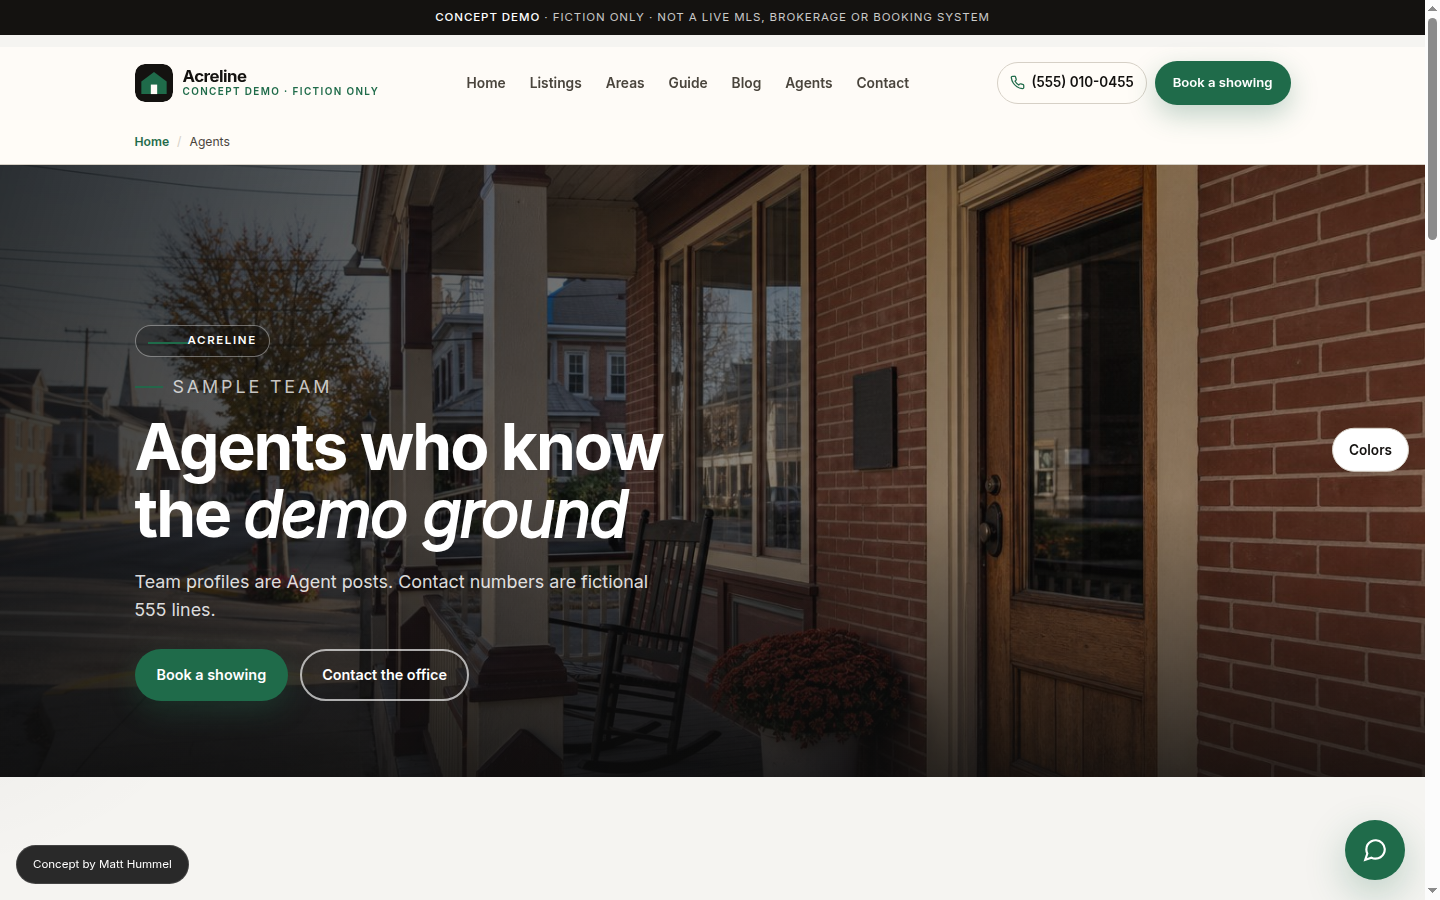
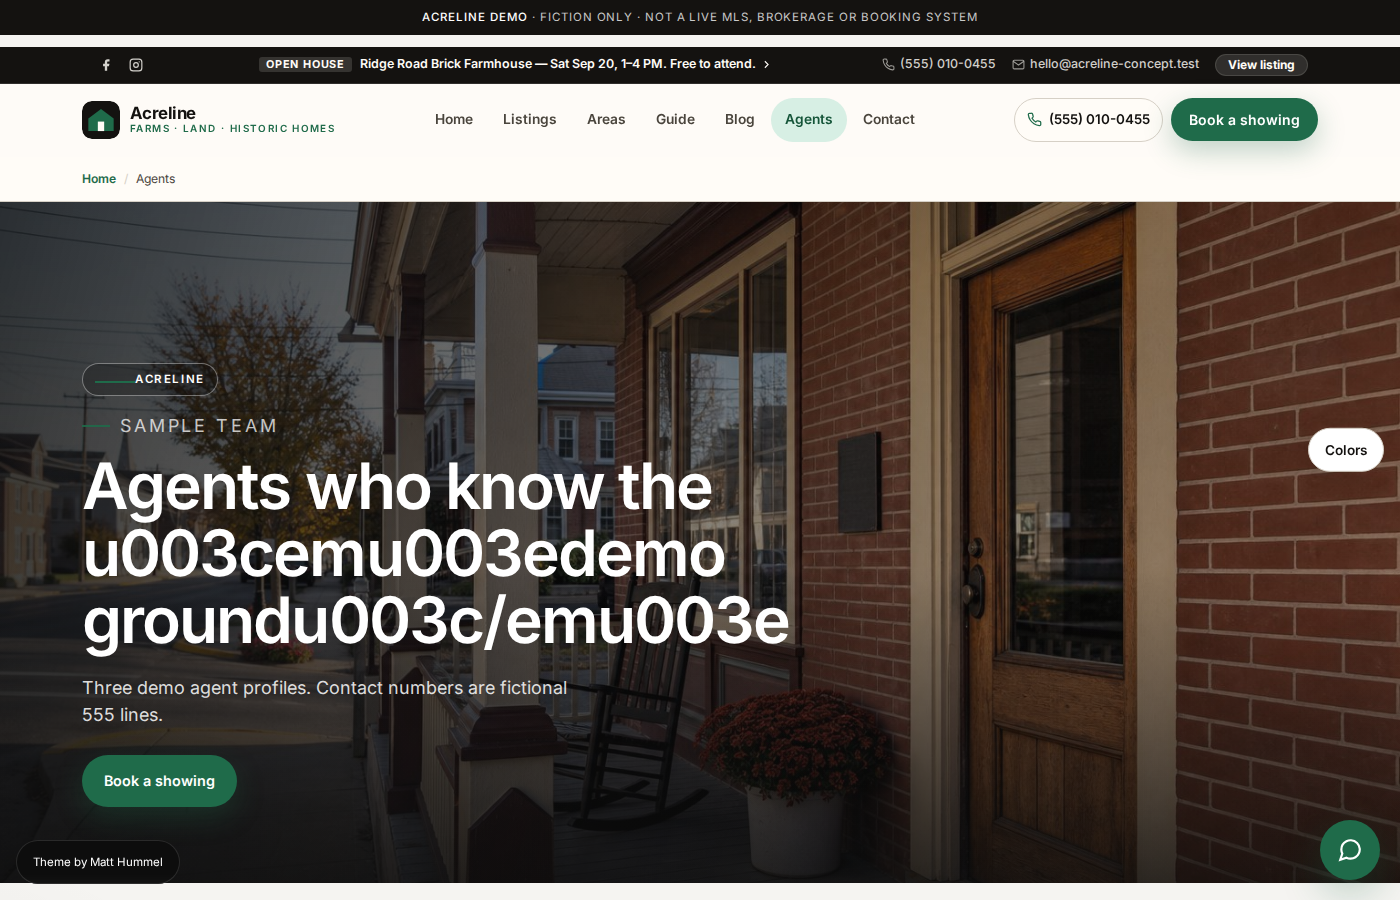
docs: add tab nav to README, refresh all screenshots for v1.4.0
- README.md: added centred anchor-link tab navigation near the top
  (Screenshots · Features · Listings & Agents · Customizer · Blocks ·
  Admin · Buying · Dev Setup · Docs) — each links to its section heading
- Screenshots section reorganised into a 2-col table with click-to-enlarge
  links; new Top Bar screenshot shown in its own subsection
- All 7 existing screenshots recaptured at 1400×900 px with top bar
  enabled and enriched seed content visible
- 2 new screenshots: 08-topbar-desktop.png (top bar close-up),
  09-listing-detail.png (listing page scrolled to calculator + agent card)
- docs/marketplace/screenshots/README.txt updated with all 9 entries
  and re-capture instructions

diff --git a/README.md b/README.md
@@ -13,7 +13,6 @@
 | **Live demo** | [acreline.matthummel.com](https://acreline.matthummel.com/) |
 | **Product page** | [matthummel.com/projects/acreline/](https://matthummel.com/projects/acreline/) |
 | **Buy / checkout** | [matthummel.com/product/acreline/](https://matthummel.com/product/acreline/) |
-| **ThemeForest** | [themeforest.net/item/acreline](https://themeforest.net/user/matthummel) *(listing in review)* |
 | **GitHub** | [`matthummel-pa/wp-acreline`](https://github.com/matthummel-pa/wp-acreline) |
 | **Support** | [SUPPORT.md](SUPPORT.md) · [GitHub Issues](https://github.com/matthummel-pa/wp-acreline/issues) |
 | **Author** | [Matt Hummel](https://matthummel.com/) |
@@ -24,32 +23,74 @@
 
 ---
 
+<!--  ──────────────────────────── TAB NAVIGATION ──────────────────────────── -->
+<div align="center">
+
+[📸 Screenshots](#screenshots) &nbsp;·&nbsp;
+[✨ Features](#features) &nbsp;·&nbsp;
+[🏠 Listings & Agents](#listings-agents-and-showings) &nbsp;·&nbsp;
+[🎨 Customizer](#customizer-appearance--customize) &nbsp;·&nbsp;
+[🧱 Blocks](#gutenberg-block-system-22-custom-blocks) &nbsp;·&nbsp;
+[⚙ Admin](#admin-pages) &nbsp;·&nbsp;
+[🛒 Buying](#purchasing-on-matthummelcom) &nbsp;·&nbsp;
+[💻 Dev Setup](#local-development-this-git-repo) &nbsp;·&nbsp;
+[📖 Docs](#documentation)
+
+</div>
+
+---
+
 ## Screenshots
 
-> Captured from the seeded concept demo. The same images are used on the [matthummel.com Acreline product page](https://matthummel.com/projects/acreline/).
+> Captured from the seeded concept demo at full 1400 px desktop width. The same images are used on the [matthummel.com Acreline product page](https://matthummel.com/projects/acreline/).
+
+### Pages
 
 | | |
-|---|---|
-| ![Homepage](docs/marketplace/screenshots/01-homepage.png) | ![Listings](docs/marketplace/screenshots/02-listings.png) |
-| **Homepage** — Hero search, Intent cards, Featured listings | **Listings** — Filter bar (type, price, acreage, area), grid + map |
-| ![Listing detail](docs/marketplace/screenshots/03-listing.png) | ![Agents](docs/marketplace/screenshots/04-agents.png) |
-| **Listing detail** — Photo, stats, calculator, agent, book CTA | **Agents** — Stats grid, designations, social links |
-| ![Contact](docs/marketplace/screenshots/05-contact.png) | ![Areas](docs/marketplace/screenshots/06-areas.png) |
-| **Contact** — Office info from Customizer + message form | **Areas** — Numbered cards, local market copy |
-| ![Book a Showing](docs/marketplace/screenshots/07-book.png) | |
-| **Book a Showing** — Showing request form, agent selector | |
+|:---:|:---:|
+| [![Homepage](docs/marketplace/screenshots/01-homepage.png)](docs/marketplace/screenshots/01-homepage.png) | [![Listings](docs/marketplace/screenshots/02-listings.png)](docs/marketplace/screenshots/02-listings.png) |
+| **Homepage** — Hero search · Intent cards · Featured listings | **Listings** — Filter bar (type, price, acreage, area) · Grid view |
+| [![Listing detail](docs/marketplace/screenshots/03-listing.png)](docs/marketplace/screenshots/03-listing.png) | [![Listing detail scroll](docs/marketplace/screenshots/09-listing-detail.png)](docs/marketplace/screenshots/09-listing-detail.png) |
+| **Listing detail** — Photo, stats, sticky CTA | **Listing detail (scrolled)** — Calculator, agent card, book CTA |
+| [![Agents](docs/marketplace/screenshots/04-agents.png)](docs/marketplace/screenshots/04-agents.png) | [![Contact](docs/marketplace/screenshots/05-contact.png)](docs/marketplace/screenshots/05-contact.png) |
+| **Agents** — Stats grid · Designations · Social links | **Contact** — Office info from Customizer + message form |
+| [![Areas](docs/marketplace/screenshots/06-areas.png)](docs/marketplace/screenshots/06-areas.png) | [![Book a Showing](docs/marketplace/screenshots/07-book.png)](docs/marketplace/screenshots/07-book.png) |
+| **Areas** — Numbered sample market cards | **Book a Showing** — Request form · Agent selector |
 
-*Full-resolution screenshots and brand assets: `docs/marketplace/screenshots/` and `public/images/brand/`.*
+### Top bar (new in 1.4.0)
+
+[![Top bar desktop](docs/marketplace/screenshots/08-topbar-desktop.png)](docs/marketplace/screenshots/08-topbar-desktop.png)
+
+**Desktop top bar** — Announcement badge · Message · Phone · Social icons · CTA pill · Dismiss button. Hidden below 900 px; all items surface in the mobile nav drawer instead.
+
+*Full-resolution screenshots and brand assets: [`docs/marketplace/screenshots/`](docs/marketplace/screenshots/) and [`public/images/brand/`](public/images/brand/).*
 
 ---
 
-## What it is
+## Features
 
-A WordPress theme that gives a land or farm real estate office everything it needs in one zip — no page builder, no ACF, no IDX plugin required. Buyers customize identity, colors, and content from the WordPress admin. Developers get a clean [Sage 11](https://roots.io/sage/) codebase with Blade, Tailwind v4, and Vite 8.
+A WordPress theme that gives a land or farm real estate office everything it needs in one zip — no page builder, no ACF, no IDX plugin required.
 
----
+### What makes Acreline different
 
-## Built with
+| Feature | Acreline | Generic real-estate themes |
+| --- | :---: | :---: |
+| No page builder required | ✅ | Page builder license often required |
+| No ACF required | ✅ | ACF Pro often bundled or required |
+| No IDX/MLS plugin | ✅ | IDX subscription often needed |
+| 22 custom server-side Gutenberg blocks | ✅ | Most use Classic or shortcodes only |
+| Block Generator (no-code custom blocks) | ✅ | Unique to Acreline |
+| Listing comparison modal | ✅ | Rare without premium add-ons |
+| Saved listings in localStorage | ✅ | Usually requires a plugin or login |
+| Built-in mortgage calculator | ✅ | Usually a plugin |
+| Market snapshot shortcode | ✅ | Usually a plugin |
+| Open house date + virtual tour fields | ✅ | Often paid add-ons |
+| Agent performance stats | ✅ | Rarely included |
+| Desktop-only top bar with mobile fallback | ✅ | Rarely included |
+| Clean Sage 11 codebase | ✅ | Most themes use custom OOP or Classic |
+| Fiction-only concept demo | ✅ | Required for honest marketplace sales |
+
+### Built with
 
 | Layer | Technology |
 | --- | --- |
@@ -63,9 +104,7 @@ A WordPress theme that gives a land or farm real estate office everything it nee
 
 ---
 
-## What's included
-
-### Gutenberg block system (22 custom blocks)
+## Gutenberg block system (22 custom blocks)
 
 All marketing pages are built with WordPress blocks. Every block renders server-side so the editor canvas matches the live page exactly.
 
@@ -94,26 +133,15 @@ All marketing pages are built with WordPress blocks. Every block renders server-
 | `Agent List` | Agent grid with photo, stats, designations, and social links |
 | `Custom Block` | Renders blocks created in the Block Generator |
 
-**Block Generator** (Tools → Block Generator) lets admins create new custom blocks — name, fields, icon — without writing PHP or JavaScript. Field types: text, textarea, URL, image (media picker), toggle.
+**Block Generator** (Tools → Block Generator) — create new custom blocks without writing PHP or JavaScript. Field types: text, textarea, URL, image (media picker), toggle.
 
-**Migrate to Blocks** (Tools → Migrate to Blocks) converts any existing page copy from the legacy `ks_*` meta format to block content in one click.
+**Migrate to Blocks** (Tools → Migrate to Blocks) — converts legacy `ks_*` meta page copy to block content in one click.
 
-### Block customization
+Every block exposes **Inspector Controls**: typography (size/weight/alignment), image picker, hero overlay, CTA style, FAQ format, column count, and per-block show/hide toggles.
 
-Every block has a live **ServerSideRender** preview in the editor so what you see in the canvas matches what visitors see. The **Inspector Controls** sidebar exposes:
+---
 
-- **Typography** — heading size (sm / default / lg / xl), heading weight, body text size, alignment
-- **Images** — WordPress media library picker with thumbnail preview and remove button
-- **Hero options** — focal point, overlay strength (slider + preset), hero height, text alignment
-- **CTA Band** — background (light / forest accent / dark ink), content alignment
-- **FAQ List** — format (definition list / flat / accordion with details/summary), list icon, numbered questions
-- **Area Grid** — column count (2 / 3 / 4), show/hide card numbers
-- **Spotlight** — listing count, grid columns
-- **Reviews** — column count, show/hide star rating, show/hide photo
-- **How We Work** — step marker style (numbered / checkmark / arrow / dot), vertical or horizontal layout
-- Per-block show/hide toggles for optional sub-sections
-
-### Pages and templates
+## Pages and templates
 
 | Page | Blocks pre-built on install |
 | --- | --- |
@@ -126,7 +154,9 @@ Every block has a live **ServerSideRender** preview in the editor so what you se
 | **Book a showing** | Page Hero · Booking Note + Form · FAQ |
 | **Blog** | Page Hero · CTA Band |
 
-### Listings, agents, and showings
+---
+
+## Listings, agents, and showings
 
 - **Listing** CPT — type, price, beds, baths, sqft, acres, township, MLS, status; plus property details, utilities (water, sewer, heating, cooling), HOA, land & farm fields (tillable/pasture acres, outbuildings), flood zone, school district, virtual tour, video tour, floor plan, open house date/time, green/eco features, smart home chips
 - **Agent** CPT — photo, bio, performance stats (homes sold, volume, avg DOM, list-to-sale ratio, review count), certifications/designations, social links (Facebook, Instagram, LinkedIn, YouTube), intro video URL, calendar booking URL, mobile number, awards, team name
@@ -142,7 +172,9 @@ Every block has a live **ServerSideRender** preview in the editor so what you se
 - **Mortgage calculator** — built-in, no plugin or API; editable rate, term, and down payment
 - **Media picker** — native WP media library picker for all image URL fields (listing photos, floor plans, agent photos)
 
-### Customizer (Appearance → Customize)
+---
+
+## Customizer (Appearance → Customize)
 
 | Section | Controls |
 | --- | --- |
@@ -156,7 +188,7 @@ Every block has a live **ServerSideRender** preview in the editor so what you se
 
 ### Top bar
 
-Acreline 1.4.0 adds a configurable slim bar above the header for desktop visitors (hidden at < 900 px via CSS). On mobile, every enabled item — announcement, contact details, social icons, and CTA — surfaces automatically at the foot of the slide-out mobile nav so nothing is hidden on small screens.
+A configurable slim bar above the header — desktop only (hidden at < 900 px). On mobile, all enabled items surface at the foot of the slide-out nav drawer.
 
 | Slot | What it can show |
 | --- | --- |
@@ -167,44 +199,15 @@ Acreline 1.4.0 adds a configurable slim bar above the header for desktop visitor
 
 Color style presets: **Dark** (ink bg), **Accent** (brand green), **Light** (paper bg), **Custom** (pick any bg + text colors). The sticky header shifts its `top` offset automatically so it sits flush below the bar.
 
+---
 
-### Admin pages
+## Admin pages
 
 | Page | Path | Description |
 | --- | --- | --- |
 | **Acreline Setup** | Appearance → Acreline Setup | Five-step wizard: brand, phone, colors, demo content |
 | **Acreline Settings** | Appearance → Acreline Settings | Tabbed settings page — listing, agent, booking, market, labels, and general options with iOS-style toggles |
 | **Acreline Support** | Appearance → Acreline Support | Quick start, feature reference, shortcode cheatsheet, FAQ accordion, and changelog |
-
-### Other features
-
-- Native `<title>`, `<meta name="description">`, canonical, Open Graph, and Twitter tags — no SEO plugin required; yields automatically when Yoast, Rank Math, SEOPress, or AIOSEO is active
-- Eight named color schemes; live preview in Customizer
-- WordPress Primary + Footer nav menus, custom logo, footer widgets, breadcrumbs
-- BreadcrumbList JSON-LD structured data
-- Translation-ready `acreline` text domain
-- GPLv2+ license; Sage / Acorn remain MIT
-
----
-
-## What makes Acreline different
-
-| Feature | Acreline | Generic real-estate themes |
-| --- | --- | --- |
-| No page builder required | ✅ | Page builder license often required |
-| No ACF required | ✅ | ACF Pro often bundled or required |
-| No IDX/MLS plugin | ✅ | IDX subscription often needed |
-| Listing comparison modal | ✅ | Rare without premium add-ons |
-| Saved listings in localStorage | ✅ | Usually requires a plugin or login |
-| Built-in mortgage calculator | ✅ | Usually a plugin |
-| Market snapshot shortcode | ✅ | Usually a plugin |
-| Open house date + virtual tour fields | ✅ | Often paid add-ons |
-| Agent performance stats | ✅ | Rarely included |
-| Desktop-only top bar with mobile fallback | ✅ | Rarely included |
-| Block Generator (no-code custom blocks) | ✅ | Unique to Acreline |
-| Clean Sage 11 codebase | ✅ | Most themes use custom OOP or Classic |
-| 22 custom server-side Gutenberg blocks | ✅ | Most use Classic or shortcodes only |
-| Fiction-only concept demo | ✅ | Required for honest marketplace sales |
 
 ---
 
@@ -250,7 +253,7 @@ Full walkthrough, screenshots, and field reference: open `Documentation/index.ht
 
 ## Purchasing on matthummel.com
 
-The Acreline product page at [matthummel.com/projects/acreline/](https://matthummel.com/projects/acreline/) shows the same screenshot set used in this README (`docs/marketplace/screenshots/01–07`). The checkout is at [matthummel.com/product/acreline/](https://matthummel.com/product/acreline/).
+The Acreline product page at [matthummel.com/projects/acreline/](https://matthummel.com/projects/acreline/) shows the same screenshot set used in this README (`docs/marketplace/screenshots/01–09`). The checkout is at [matthummel.com/product/acreline/](https://matthummel.com/product/acreline/).
 
 After purchase you receive the full seller pack (`acreline-<version>.zip`) — the same file built by `bin/build-install-pack.sh`. This contains:
 
@@ -263,7 +266,7 @@ After purchase you receive the full seller pack (`acreline-<version>.zip`) — t
 | `Demos/` | Seed notes (Tools → Seed Acreline demo) |
 | `Licensing/` | GPLv2 notice and credits |
 
-The product page screenshots are generated from the live concept demo and stored in `docs/marketplace/screenshots/`. If you embed them in your own site or store listing, use the paths from that folder — they are updated with every release.
+The product page screenshots are generated from the live concept demo and stored in `docs/marketplace/screenshots/`. They are updated with every release.
 
 ---
 
@@ -354,7 +357,7 @@ wp acorn view:clear --path="$HOME/wp" --allow-root
 | [`docs/marketplace/index.html`](docs/marketplace/index.html) | Buyer docs hub — open this first |
 | [`docs/marketplace/buyer-guide.html`](docs/marketplace/buyer-guide.html) | Install, Customizer, top bar, fields, menus, FAQ |
 | [`docs/marketplace/themeforest-listing.md`](docs/marketplace/themeforest-listing.md) | Paste-ready store listing copy |
-| [`docs/marketplace/screenshots/`](docs/marketplace/screenshots/) | 01–07 item images used on matthummel.com |
+| [`docs/marketplace/screenshots/`](docs/marketplace/screenshots/) | 01–09 item images used on matthummel.com |
 | [`public/images/brand/`](public/images/brand/) | House mark + horizontal lockup (SVG, GPLv2) |
 
 ---
